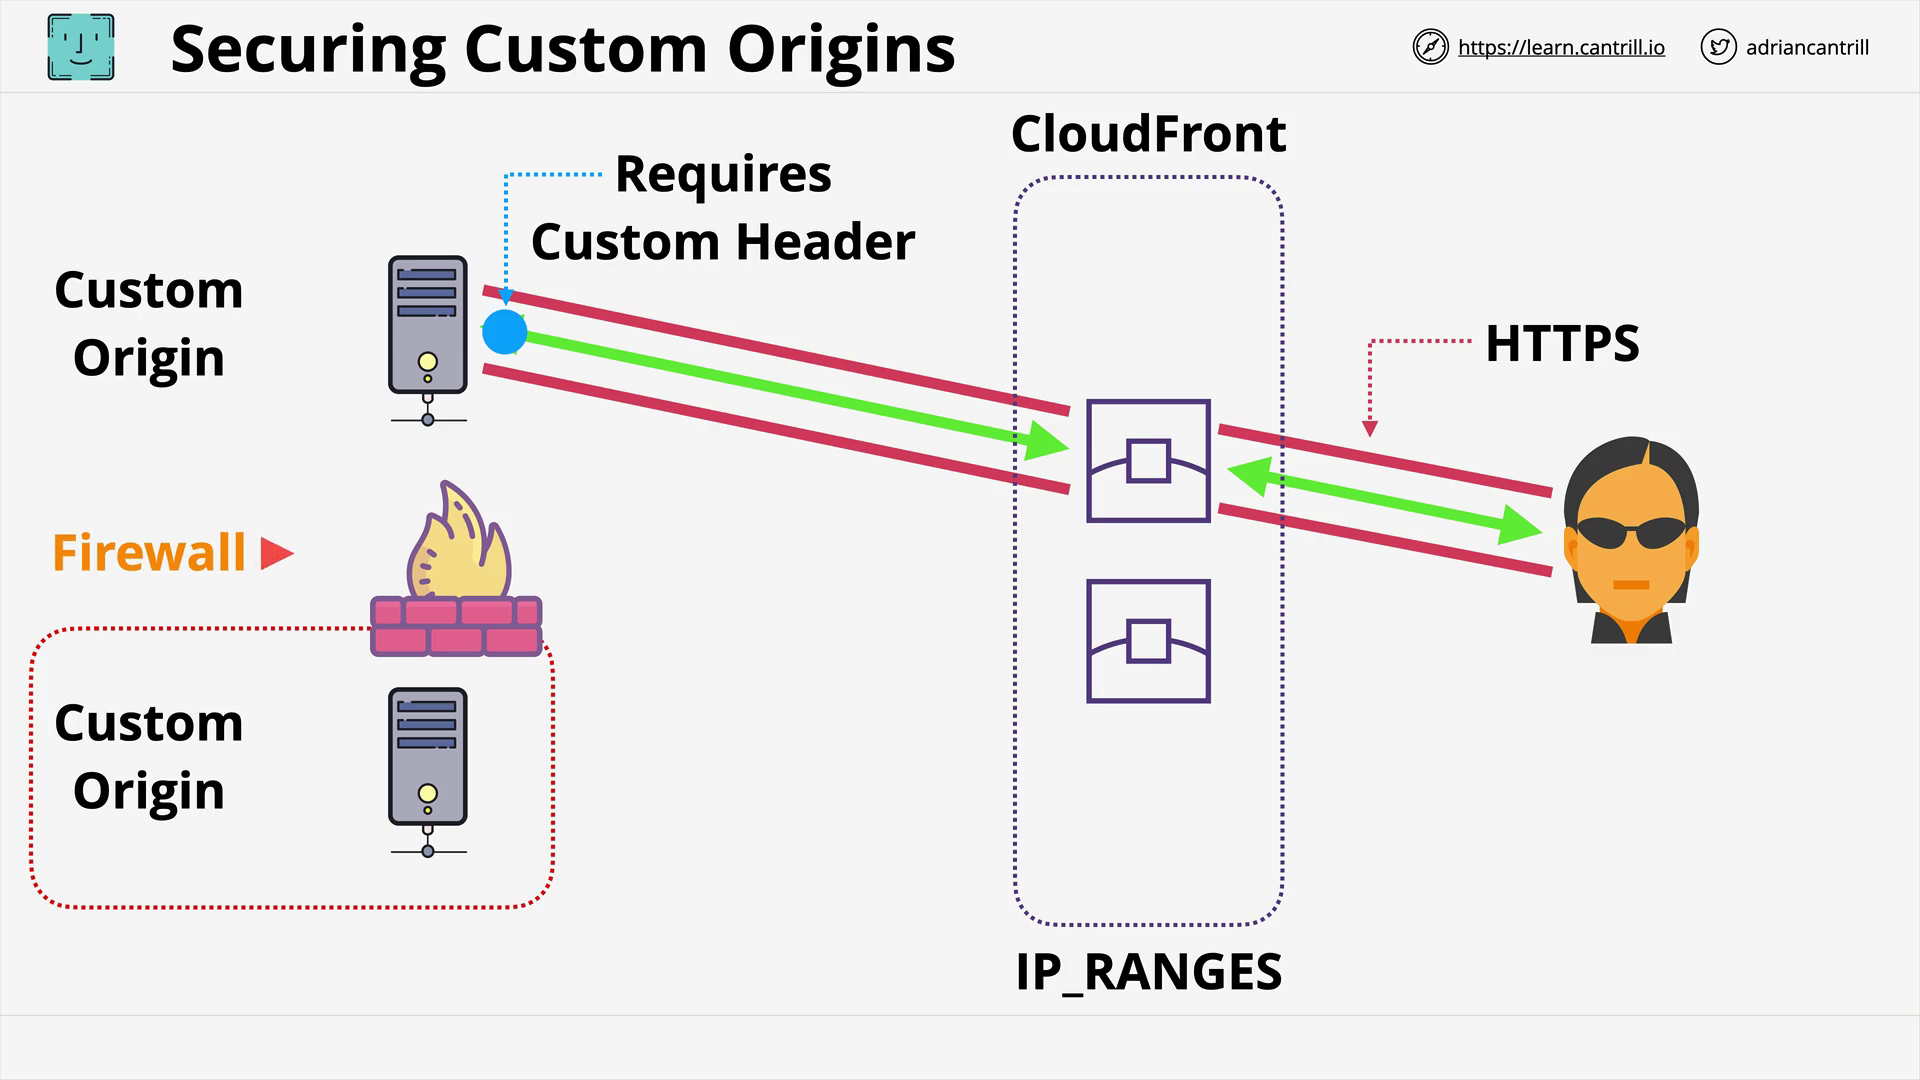
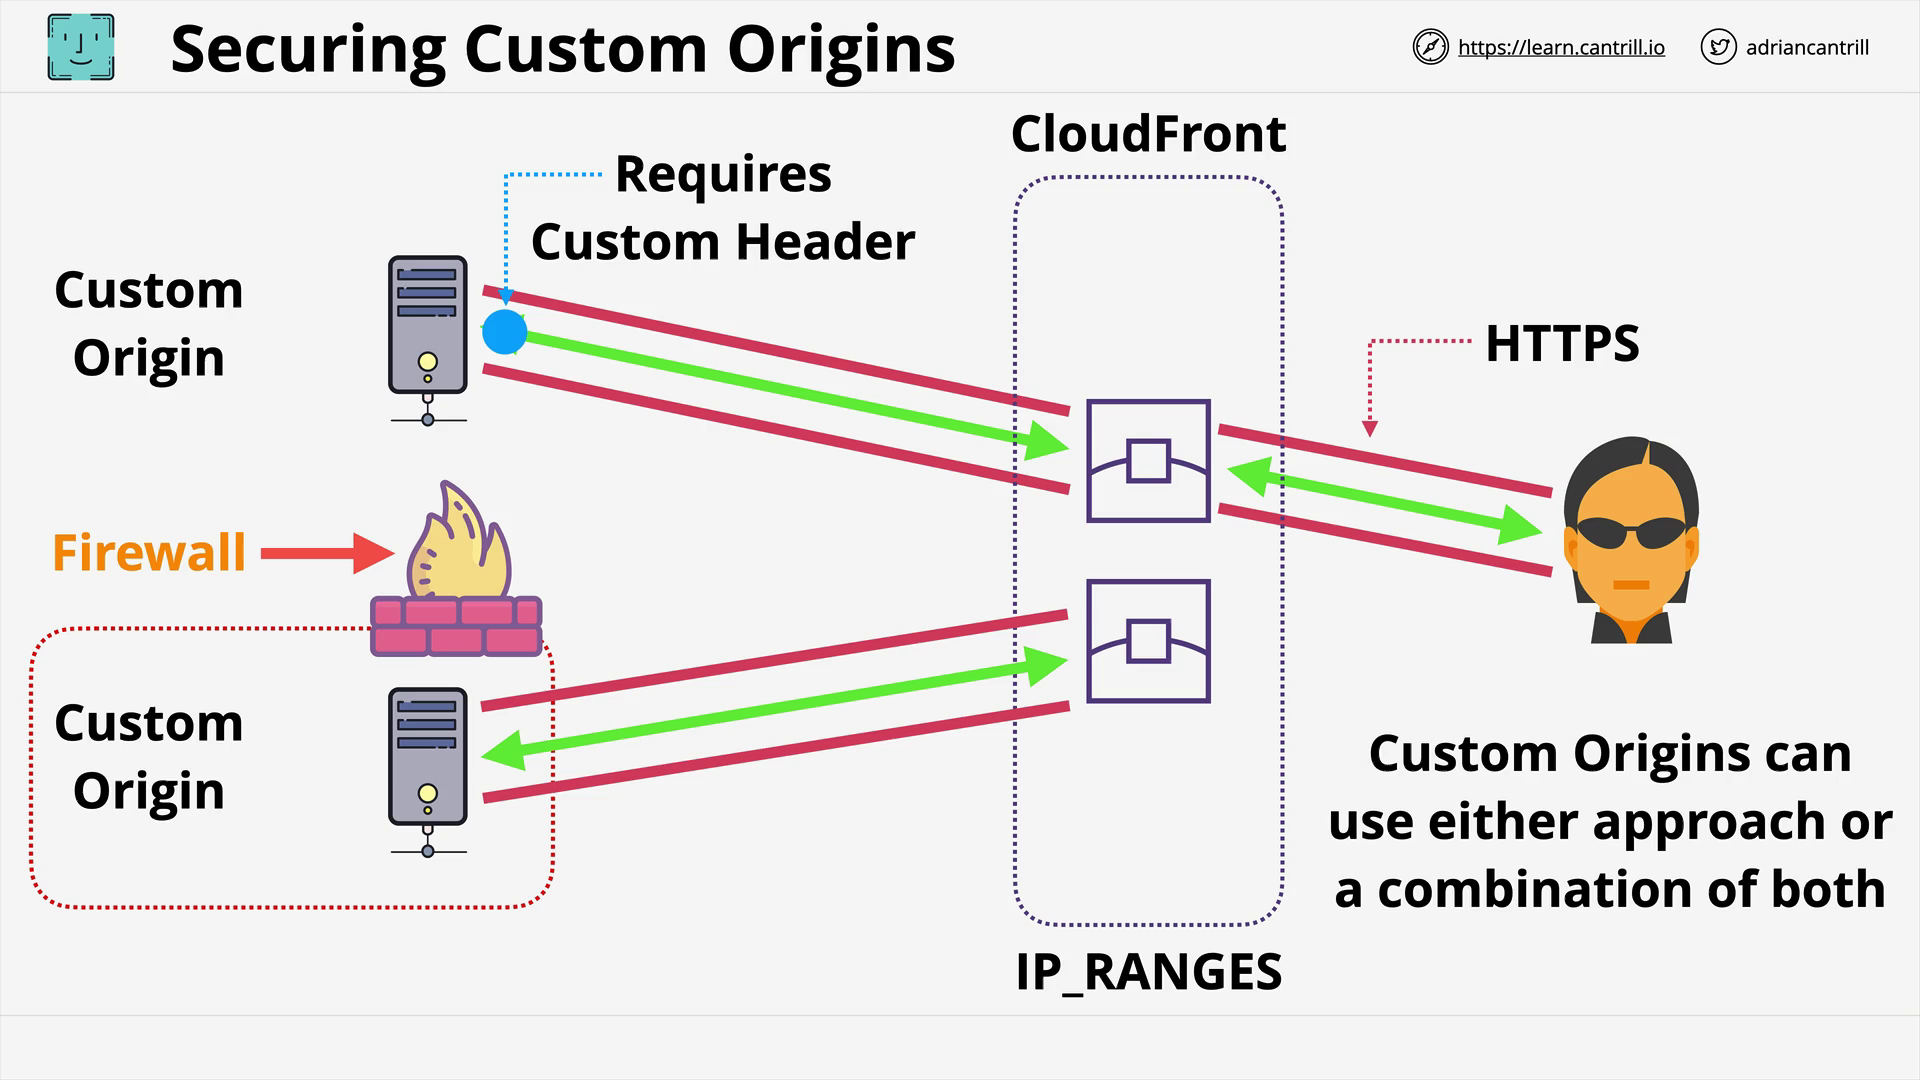
doc(wiki): clarify CloudFront custom domains and origin protection
Add a custom-domain checklist covering ACM certificates, distribution
settings, DNS routing, and verification.

Separate secret-header validation from source-IP filtering and replace
the origin-protection diagram with the complete two-method view.
Fix signed-access links and consolidate the wiki index and log.

Changed region(s): [[0.6875, 0.6722, 1.0, 0.8556], [0.25, 0.55, 0.5625, 0.7639], [0.125, 0.4889, 0.2188, 0.5194]]

diff --git a/wiki/services/cloudfront.md b/wiki/services/cloudfront.md
@@ -60,11 +60,11 @@ Origins are configured in the distribution and **referenced by behaviors**; the 
 
 ### Configuration Scopes at a Glance
 
-| Scope | What it controls | Key settings |
-| --- | --- | --- |
-| Distribution | Shared configuration across all behaviors | Price class, viewer TLS security policy and certificate, SNI/dedicated-IP SSL support, alternate domain names, WAF association, supported viewer HTTP versions, logging |
-| Cache behavior | Rules for requests matching a path pattern | Origin/origin-group reference, viewer protocol policy, allowed/cached methods, cache/origin-request policies, signed viewer access, compression, field-level encryption, edge-function associations |
-| Origin | Connection and access to one backend | Domain name, origin path, origin access configuration; custom-origin protocol policy, TLS settings, ports, and custom headers |
+| Scope          | What it controls                           | Key settings                                                                                                                                                                                                                                                           |
+| -------------- | ------------------------------------------ | ---------------------------------------------------------------------------------------------------------------------------------------------------------------------------------------------------------------------------------------------------------------------- |
+| Distribution   | Shared configuration across all behaviors  | Price class, viewer TLS security policy and certificate, SNI/dedicated-IP SSL support, alternate domain names, WAF association, supported viewer HTTP versions, logging                                                                                                |
+| Cache behavior | Rules for requests matching a path pattern | Origin/origin-group reference, viewer protocol policy, allowed/cached methods, cache/origin-request policies, [signed viewer access](#private-distribution-behaviours-signed-urls-and-signed-cookies), compression, field-level encryption, edge-function associations |
+| Origin         | Connection and access to one backend       | Domain name, origin path, origin access configuration; custom-origin protocol policy, TLS settings, ports, and custom headers                                                                                                                                          |
 
 ### Distribution-Level Settings
 
@@ -91,7 +91,7 @@ Check which browsers, mobile apps, and devices need access before choosing a pol
 
 ### Behavior-Level Settings
 
-Each behavior defines rules for a matching path: which origin or origin group to use, which HTTP methods to accept or cache, how to cache and forward request data, and whether signed viewer access is required. Compression, field-level encryption, and edge-function associations are also configured here.
+Each behavior defines rules for a matching path: which origin or origin group to use, which HTTP methods to accept or cache, how to cache and forward request data, and whether [signed viewer access](#private-distribution-behaviours-signed-urls-and-signed-cookies) is required. Compression, field-level encryption, and edge-function associations are also configured here.
 
 The **viewer protocol policy** is a behavior setting. It chooses whether matching requests may use HTTP/HTTPS, must redirect from HTTP to HTTPS, or must use HTTPS. It does not choose TLS versions or ciphers; those come from the distribution-level **TLS security policy**.
 
@@ -211,6 +211,19 @@ Versioned filenames also avoid reuse of old browser/proxy cache entries, support
 
 > [!tip] Exam Tip
 > Frequent content updates plus cost efficiency → prefer **versioned filenames** over repeatedly invalidating the same URLs. Invalidation charges depend on submitted path count, not how many objects a wildcard matches.
+
+## Custom Domain Setup: Certificate, Distribution, and DNS
+
+To serve `https://www.example.com` through CloudFront, connect three pieces: a certificate covering that hostname, a distribution configured to accept it, and DNS routing viewers to that distribution. The **alternate domain names and viewer certificate are distribution-level settings** shared by all behaviors.
+
+1. **Choose a hostname you control**, such as `www.example.com`, and have access to its authoritative public DNS. Your domain registrar and DNS provider can be outside AWS.
+2. **Request or import a certificate in [ACM](acm.md), in `us-east-1`.** Request an ACM public certificate covering every hostname you will add. Alternatively, import an existing trusted CA certificate with its matching private key and certificate chain. A wildcard such as `*.example.com` covers `www.example.com`, but not the apex `example.com` or deeper names such as `a.b.example.com`. [AWS certificate requirements](https://docs.aws.amazon.com/AmazonCloudFront/latest/DeveloperGuide/cnames-and-https-requirements.html)
+3. **Validate an ACM-issued certificate.** With DNS validation, publish the CNAME record(s) ACM provides and wait for the certificate to become **Issued**. Keep these records for automatic renewal. Imported certificates instead require you to manage renewal and reimport replacements. [ACM DNS validation](https://docs.aws.amazon.com/acm/latest/userguide/dns-validation.html)
+4. **Configure the distribution.** Add `www.example.com` under **Alternate domain names (CNAMEs)** and select the matching ACM certificate. Use SNI for modern clients and choose an appropriate viewer TLS security policy. To redirect HTTP visitors to HTTPS, set **Redirect HTTP to HTTPS** on each relevant behavior. Save and wait for deployment before switching traffic. AWS deploys the associated certificate to the edges; you do not manually install it on edge servers. [AWS custom-domain setup](https://docs.aws.amazon.com/AmazonCloudFront/latest/DeveloperGuide/CNAMEs.html)
+5. **Point the hostname's DNS record to the distribution**, for example `d111111abcdef8.cloudfront.net`. In [Route 53](route53.md), create an **A alias** targeting the distribution, plus an **AAAA alias** if IPv6 is enabled. These work for both subdomains and the apex. With another DNS provider, use a **CNAME** for a subdomain; an apex requires that provider's supported ALIAS/ANAME or CNAME-flattening feature, or Route 53. Target the distribution hostname, rather than copying its currently resolved IP addresses. [AWS DNS routing guide](https://docs.aws.amazon.com/Route53/latest/DeveloperGuide/routing-to-cloudfront-distribution.html)
+6. **Verify the custom URL after DNS propagation.** Open `https://www.example.com`, check that the certificate covers the hostname, and confirm the expected content and HTTP-to-HTTPS redirect. Update application links to use the custom hostname.
+
+The **ACM validation CNAME** proves domain ownership; the **traffic-routing alias/CNAME** sends users to CloudFront. They are separate DNS records with different purposes. Adding a DNS record alone does not configure CloudFront to accept the hostname, and attaching the viewer certificate does not configure HTTPS on the origin.
 
 ## TLS: Two Independent Connections
 
@@ -361,11 +374,32 @@ For new deployments, AWS recommends **OAC**. It supports modern S3 Regions, SSE-
 
 ### Protect Custom Origins
 
-Combine HTTPS, a CloudFront-injected custom header checked by the origin, and firewall restrictions to CloudFront source ranges.
+For a publicly reachable custom origin, two complementary methods help prevent viewers from bypassing CloudFront:
 
-![A custom origin requires a CloudFront-added header while a firewall allows origin-facing CloudFront source addresses](../assets/cloudfront-custom-origin-protection.png)
+| Method | What it checks | Where it is configured |
+| --- | --- | --- |
+| Secret custom header | Does the request carry the expected secret? | CloudFront **origin settings** add the header; the origin application or ALB listener validates it |
+| Source-IP restriction | Did the connection come from CloudFront's origin-facing servers? | The origin's firewall or security group permits CloudFront source ranges |
 
-Treat the header value as a secret: keep it out of client responses, protect configuration access, rotate it, and reject missing/incorrect values. HTTPS protects it in transit but does not make it impossible to leak or replay. CloudFront source-range filtering alone permits other customers' distributions too; combine network restrictions with distribution-specific origin validation. For supported private AWS resources, consider a VPC origin instead of a publicly reachable origin. [AWS custom-header and network restrictions](https://docs.aws.amazon.com/AmazonCloudFront/latest/DeveloperGuide/restrict-access-to-load-balancer.html)
+You can use either method or combine them. In the architecture below, the **upper origin** illustrates header validation; the **lower origin** illustrates firewall filtering. They are two alternatives, not two sequential hops.
+
+![Two custom-origin protection options: the upper origin checks a CloudFront-added secret header over HTTPS, while the lower origin uses a firewall allowing CloudFront source IP ranges](../assets/cloudfront-custom-origin-protection.png)
+
+#### Method 1: Require a Secret Custom Header
+
+CloudFront adds a secret header when forwarding a request to the origin. The origin checks the expected **name and value**, serves matching requests, and rejects missing or incorrect values. With an [ALB](elb.md), a listener rule can forward matching requests to the target group while the default rule returns `403`.
+
+Configure the header under **origin settings**, and use the origin protocol policy to require HTTPS between CloudFront and the origin. The behavior's viewer protocol policy separately controls HTTPS for viewers. Keep the header secret, prevent it from appearing in client responses, restrict configuration access, and rotate it. HTTPS protects the header in transit; a leaked secret can still be replayed. [AWS header-based origin protection](https://docs.aws.amazon.com/AmazonCloudFront/latest/DeveloperGuide/restrict-access-to-load-balancer.html)
+
+#### Method 2: Allow Only CloudFront Source IP Ranges
+
+The origin's firewall allows incoming connections on the required service port, typically HTTPS/443, from **CloudFront origin-facing IP ranges** and denies other sources. A direct viewer connection is blocked at the network boundary, before the application handles an HTTP request.
+
+For an AWS origin protected by a [security group](../concepts/networking.md), use the AWS-managed prefix list `com.amazonaws.global.cloudfront.origin-facing` for IPv4; use the corresponding `com.amazonaws.global.ipv6.cloudfront.origin-facing` list when allowing IPv6 origin connections. AWS maintains these ranges. For other firewalls, maintain rules from AWS's published origin-facing ranges and keep them updated. Remove broader inbound rules that would permit bypassing the restriction. [AWS CloudFront IP ranges and managed prefix lists](https://docs.aws.amazon.com/AmazonCloudFront/latest/DeveloperGuide/LocationsOfEdgeServers.html)
+
+This identifies **CloudFront as a service**, not your particular distribution: other customers' distributions also use these source ranges. Combining source-IP filtering with a secret unique to your distribution adds a second check. Neither method replaces [signed viewer access](#private-distribution-behaviours-signed-urls-and-signed-cookies), which controls who may retrieve content through CloudFront.
+
+For supported private AWS resources, a **VPC origin** provides another architecture option that avoids a publicly reachable origin. The two methods above describe protection for public custom origins, rather than an exhaustive list of all origin-access options. [AWS VPC origins](https://docs.aws.amazon.com/AmazonCloudFront/latest/DeveloperGuide/private-content-vpc-origins.html)
 
 ## Practical Checks
 
@@ -381,6 +415,9 @@ Treat the header value as a secret: keep it out of client responses, protect con
 
 ## References
 
+- [Custom domain names](https://docs.aws.amazon.com/AmazonCloudFront/latest/DeveloperGuide/CNAMEs.html)
+- [Viewer certificate requirements](https://docs.aws.amazon.com/AmazonCloudFront/latest/DeveloperGuide/cnames-and-https-requirements.html)
+- [Route 53 routing to CloudFront](https://docs.aws.amazon.com/Route53/latest/DeveloperGuide/routing-to-cloudfront-distribution.html)
 - [How CloudFront delivers content](https://docs.aws.amazon.com/AmazonCloudFront/latest/DeveloperGuide/HowCloudFrontWorks.html)
 - [Cache behavior settings](https://docs.aws.amazon.com/AmazonCloudFront/latest/DeveloperGuide/DownloadDistValuesCacheBehavior.html)
 - [Origin types](https://docs.aws.amazon.com/AmazonCloudFront/latest/DeveloperGuide/DownloadDistS3AndCustomOrigins.html)

diff --git a/wiki/log.md b/wiki/log.md
@@ -1608,3 +1608,7 @@ Expanded Lambda coverage of direct service triggers versus ESM polling, supporte
 ## [2026-11-10] ingest | CloudFront, Edge Delivery, and Global Acceleration
 
 Added CloudFront, ACM, Lambda@Edge, Global Accelerator, and Edge Delivery guides with architecture illustrations and a cache-lifecycle animation. Covered configuration scopes, behavior ordering, cache-policy TTLs versus origin headers, invalidation automation and costs, viewer/origin TLS and SNI, signed URL/cookie authorization and formats, OAI/OAC and custom-origin protection, and anycast IP assignment and setup. Corrected ACM exportability and DNS-validation guidance; cross-linked related services, concepts, patterns, overview, and SAA notes. Consolidated the index and validated Markdown and local links.
+
+## [2026-11-10] update | CloudFront Custom Domains and Origin Protection
+
+Added a standalone custom-domain setup checklist covering ACM certificates in us-east-1, validation, distribution settings, DNS routing, and verification. Separated secret-header validation and source-IP filtering with configuration scopes, limitations, and a complete two-method architecture diagram. Corrected signed-access heading links and consolidated the index summary; validated Markdown and local links.

diff --git a/wiki/index.md b/wiki/index.md
@@ -15,7 +15,7 @@ Section links use GitHub-style heading anchors. In Obsidian, use the GFM Heading
 
 ## Services
 
-- [CloudFront](services/cloudfront.md) — Distribution/behavior/origin scopes, caching and TTLs, invalidation automation and costs, TLS/SNI, signed URLs/cookies, and origin protection
+- [CloudFront](services/cloudfront.md) — Configuration scopes, caching/TTLs and invalidation, [custom domains](services/cloudfront.md#custom-domain-setup-certificate-distribution-and-dns), TLS/SNI, [signed viewer access](services/cloudfront.md#private-distribution-behaviours-signed-urls-and-signed-cookies), and S3/custom-origin protection
 - [Global Accelerator](services/global-accelerator.md) — Anycast assignment, IPv4/dual-stack, what to configure after receiving IPs, listeners/endpoints/DNS/HTTPS testing, backbone path, and failover
 - [Lambda@Edge](services/lambda-edge.md) — Four trigger positions, cache-safe variants, use cases and AWS examples including redirects, deployment restrictions, and updated quotas
 - [ACM](services/acm.md) — Certificate lifecycle, CNAME validation, regional placement and CloudFront us-east-1, imported-certificate renewal, and exportable public certificates
